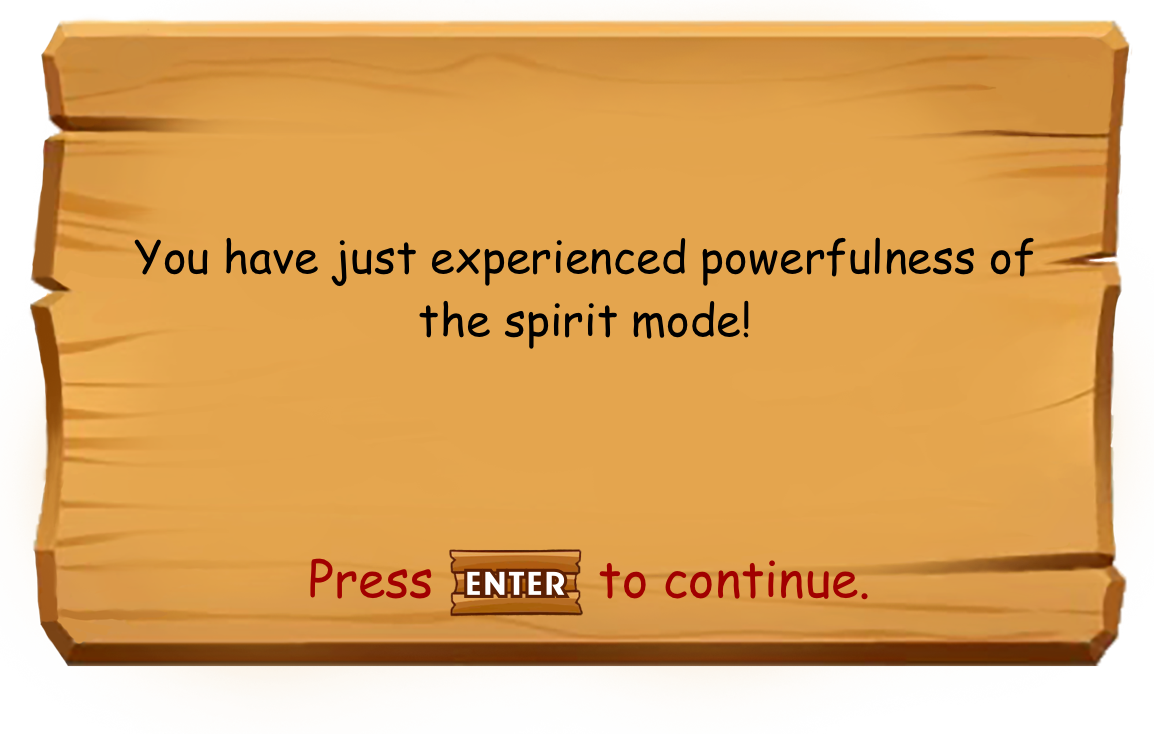
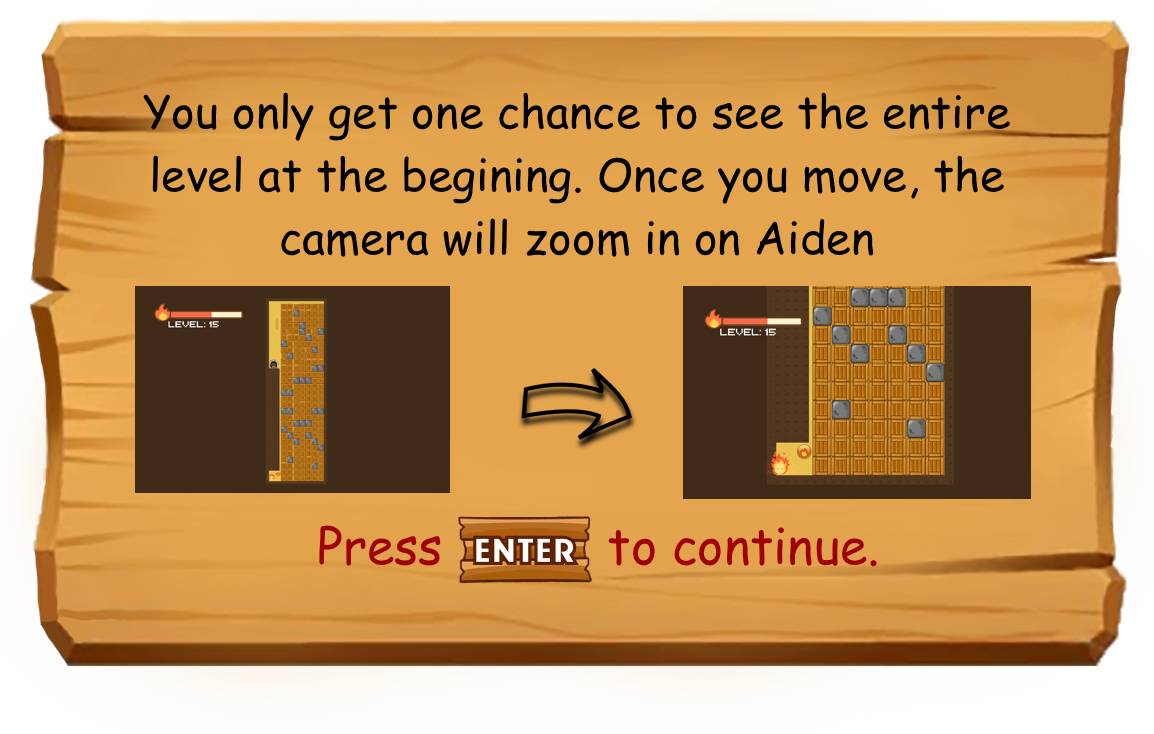
update tutorials

diff --git a/Aiden/core/src/edu/cornell/gdiac/physics/TutorialController.java b/Aiden/core/src/edu/cornell/gdiac/physics/TutorialController.java
@@ -136,7 +136,7 @@ class TutorialController extends AidenController{
 			if(m instanceof PositionMessage){
 				float end_x = ((PositionMessage) m).getEndX();
 				float end_y = ((PositionMessage) m).getEndY();	
-				if(Math.abs(end_x - avatar.getX())<1 && Math.abs(end_y - avatar.getY())<3){
+				if(Math.abs(end_x - avatar.getX())<1 && Math.abs(end_y - avatar.getY())<5){
 					messages[currentMsg].setDone();
 					this.tutmsg_s = m.getEndMsg();
 					this.tutpause = true;

diff --git a/Aiden/core/src/edu/cornell/gdiac/physics/AidenController.java b/Aiden/core/src/edu/cornell/gdiac/physics/AidenController.java
@@ -893,7 +893,8 @@ public class AidenController extends WorldController
 			}
 		}
 
-		if (InputController.getInstance().getHorizontal() != 0) {
+		if (InputController.getInstance().getHorizontal() != 0 
+				|| InputController.getInstance().getVertical() != 0 ) {
 			beginCamFrame = 400;
 		}
 
